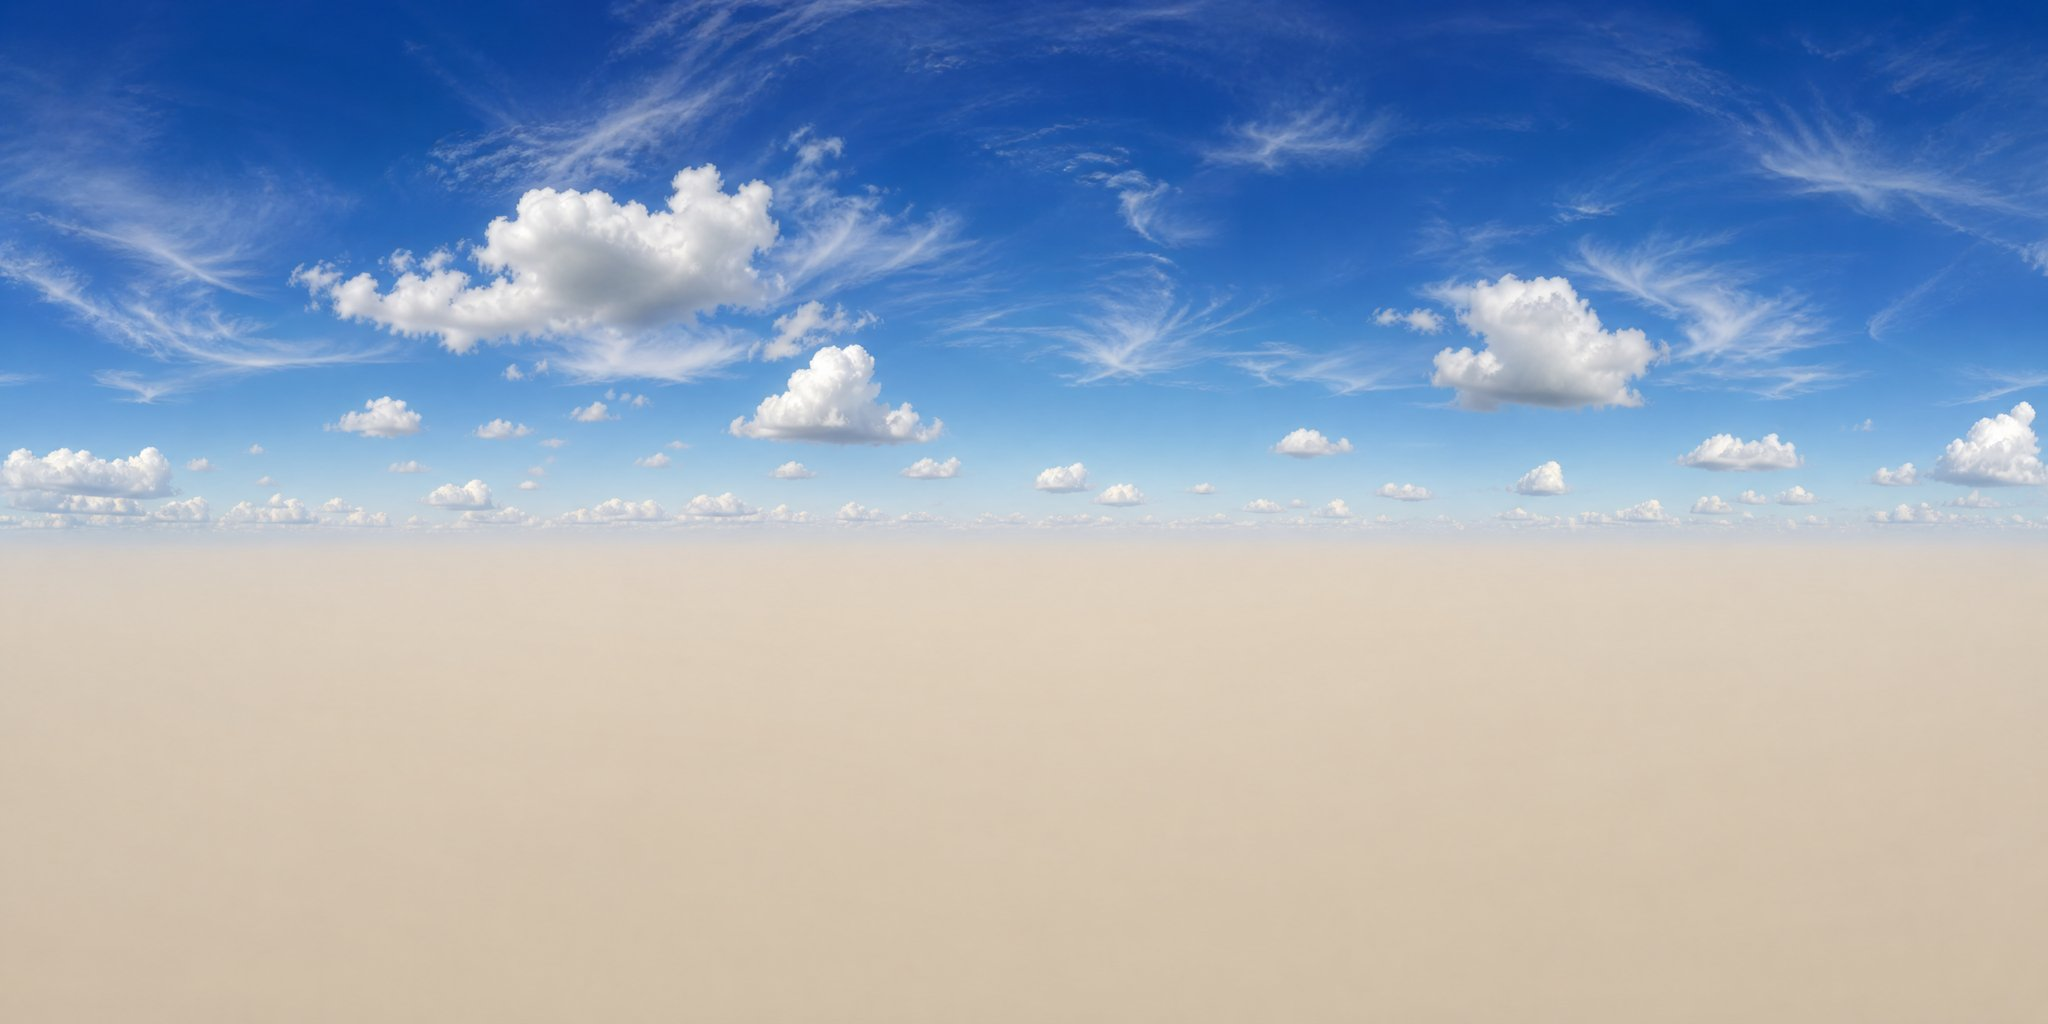
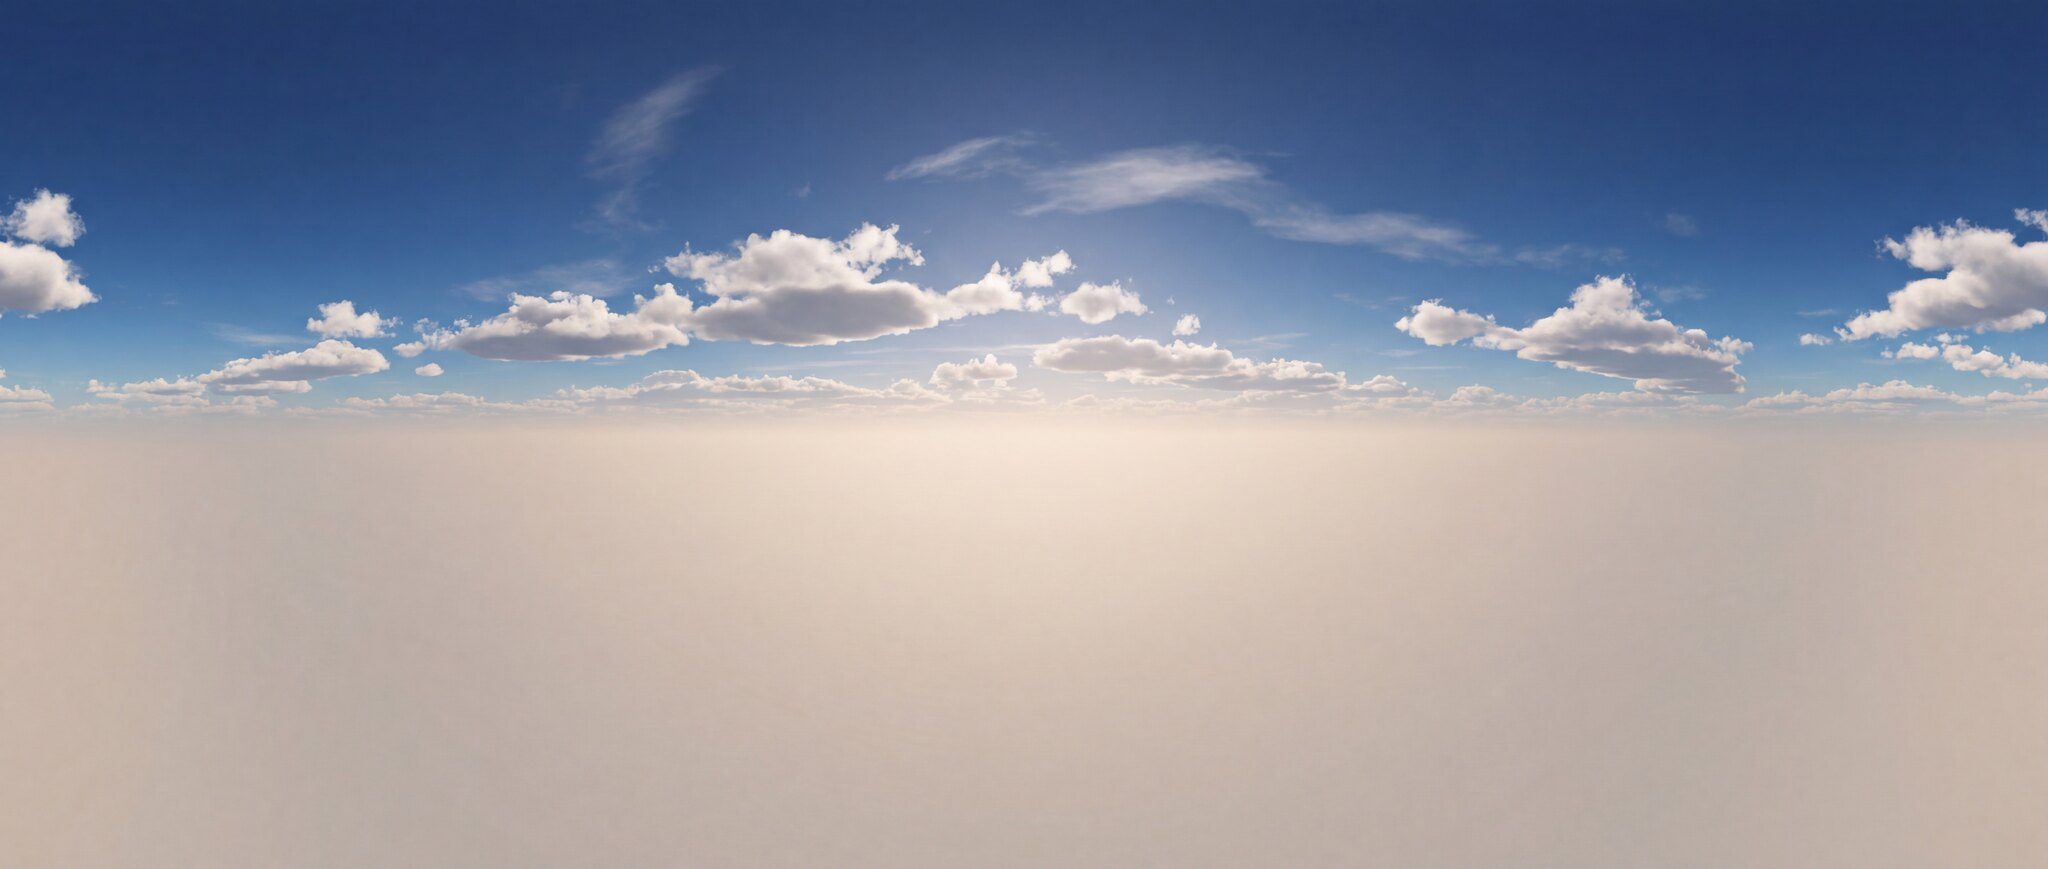
Integrate generated texture pack: sky day/dusk/night, 8 ground textures, 8 branded entry signs

diff --git a/app/public/client.js b/app/public/client.js
@@ -56,15 +56,15 @@ addEventListener("resize", resize); resize();
 
 // sky dome with gradient, sun glow and a cloud layer drawn from noise
 const texLoader0 = new THREE.TextureLoader();
-const skyDay = texLoader0.load("/tex/sky_day.jpg"), skyDusk = texLoader0.load("/tex/sky_dusk.jpg"); skyDay.encoding = skyDusk.encoding = THREE.sRGBEncoding;
+const skyDay = texLoader0.load("/tex/sky_day.jpg"), skyDusk = texLoader0.load("/tex/sky_dusk.jpg"), skyNight = texLoader0.load("/tex/sky_night.jpg"); skyDay.encoding = skyDusk.encoding = skyNight.encoding = THREE.sRGBEncoding;
 const skyMat = new THREE.ShaderMaterial({
-  uniforms: { tDay: { value: skyDay }, tDusk: { value: skyDusk }, kDusk: { value: 0 }, kNight: { value: 0 }, nightCol: { value: new THREE.Color(0x070b18) }, horizon: { value: new THREE.Color(0xe7d6bd) }, sunDir: { value: new THREE.Vector3(0, 1, 0) }, sunCol: { value: new THREE.Color(0xffd9a0) }, glow: { value: 1 } },
+  uniforms: { tDay: { value: skyDay }, tDusk: { value: skyDusk }, tNight: { value: skyNight }, kDusk: { value: 0 }, kNight: { value: 0 }, nightCol: { value: new THREE.Color(0x070b18) }, horizon: { value: new THREE.Color(0xe7d6bd) }, sunDir: { value: new THREE.Vector3(0, 1, 0) }, sunCol: { value: new THREE.Color(0xffd9a0) }, glow: { value: 1 } },
   vertexShader: `varying vec3 vDir; void main(){ vDir = normalize(position); gl_Position = projectionMatrix * modelViewMatrix * vec4(position, 1.0); }`,
-  fragmentShader: `uniform sampler2D tDay; uniform sampler2D tDusk; uniform float kDusk; uniform float kNight; uniform vec3 nightCol; uniform vec3 horizon; uniform vec3 sunDir; uniform vec3 sunCol; uniform float glow; varying vec3 vDir;
+  fragmentShader: `uniform sampler2D tDay; uniform sampler2D tDusk; uniform sampler2D tNight; uniform float kDusk; uniform float kNight; uniform vec3 nightCol; uniform vec3 horizon; uniform vec3 sunDir; uniform vec3 sunCol; uniform float glow; varying vec3 vDir;
     void main(){ vec3 d = normalize(vDir); float u = atan(d.z, d.x) / 6.28318 + 0.5; float v = 0.5 + asin(clamp(d.y, -1.0, 1.0)) / 3.14159;
       vec3 sky = mix(texture2D(tDay, vec2(u, v)).rgb, texture2D(tDusk, vec2(u, v)).rgb, kDusk);
       float hz = smoothstep(0.0, 0.12, d.y); sky = mix(horizon, sky, hz);
-      sky = mix(sky, nightCol, kNight);
+      sky = mix(sky, texture2D(tNight, vec2(u, v)).rgb, kNight);
       float s = max(dot(d, normalize(sunDir)), 0.0); sky += sunCol * glow * (pow(s, 500.0) * 2.4 + pow(s, 8.0) * 0.3 * (1.0 - hz * 0.5));
       gl_FragColor = vec4(sky, 1.0); }`,
   side: THREE.BackSide, depthWrite: false, fog: false });
@@ -108,7 +108,7 @@ const loadbar = $("#loadbar"); const setLoad = (p, m) => { loadbar.style.width =
 // ───────────────────────────── materials ─────────────────────────────
 function tiled(path, rx, ry) { const t = texLoader0.load(path); t.wrapS = t.wrapT = THREE.RepeatWrapping; t.repeat.set(rx, ry); t.encoding = THREE.sRGBEncoding; t.anisotropy = 8; return t; }
 function procTex(fn, size) { const c = document.createElement("canvas"); c.width = c.height = size || 256; const x = c.getContext("2d"); fn(x, c.width); const t = new THREE.CanvasTexture(c); t.wrapS = t.wrapT = THREE.RepeatWrapping; t.repeat.set(4, 4); t.encoding = THREE.sRGBEncoding; return t; }
-const TEX = { detail: tiled("/tex/detail.jpg", 1, 1), turf: tiled("/tex/turf.jpg", 1, 1), apron: tiled("/tex/apron.jpg", 1, 1), dirt: tiled("/tex/dirt.jpg", 1, 1),
+const TEX = { detail: tiled("/tex/detail.jpg", 1, 1), turf: tiled("/tex/turf.jpg", 1, 1), apron: tiled("/tex/apron.jpg", 1, 1), dirt: tiled("/tex/dirt.jpg", 1, 1), sand: tiled("/tex/sand.jpg", 1, 1), wood: tiled("/tex/wood.jpg", 1, 1), adobe: tiled("/tex/adobe.jpg", 1, 1), corrugated: tiled("/tex/corrugated.jpg", 1, 1),
   plank: procTex((x, S) => { x.fillStyle = "#7a5535"; x.fillRect(0, 0, S, S); for (let i = 0; i < 8; i++) { x.fillStyle = i % 2 ? "rgba(0,0,0,.14)" : "rgba(255,255,255,.05)"; x.fillRect(0, i * S / 8, S, S / 8); x.fillStyle = "rgba(0,0,0,.4)"; x.fillRect(0, i * S / 8, S, 2); for (let k = 0; k < 40; k++) { x.fillStyle = "rgba(0,0,0,.08)"; x.fillRect(Math.random() * S, i * S / 8 + Math.random() * S / 8, 20 + Math.random() * 60, 1); } } }),
   adobeWall: procTex((x, S) => { x.fillStyle = "#e6dac4"; x.fillRect(0, 0, S, S); for (let k = 0; k < 900; k++) { x.fillStyle = `rgba(120,90,60,${Math.random() * 0.08})`; x.fillRect(Math.random() * S, Math.random() * S, 2 + Math.random() * 4, 2 + Math.random() * 4); } }),
   checker: procTex((x, S) => { for (let i = 0; i < 4; i++) for (let j = 0; j < 4; j++) { x.fillStyle = (i + j) % 2 ? "#f5f1e6" : "#0a1610"; x.fillRect(i * S / 4, j * S / 4, S / 4, S / 4); } }) };
@@ -123,7 +123,7 @@ const M = {
   coneW: new THREE.MeshStandardMaterial({ color: 0xf5f1e6, roughness: 0.7 }), tire: new THREE.MeshStandardMaterial({ color: 0x1d1d1f, roughness: 0.95 }),
   ramp: new THREE.MeshStandardMaterial({ color: 0x7a5a3a, roughness: 0.9 }), banner: new THREE.MeshStandardMaterial({ color: 0x4dde6f, roughness: 0.8, side: THREE.DoubleSide }),
   turf: new THREE.MeshStandardMaterial({ map: TEX.turf, roughness: 1 }), fringe: new THREE.MeshStandardMaterial({ color: 0x6f9a4a, roughness: 1 }),
-  sand: new THREE.MeshStandardMaterial({ color: 0xe6d3a3, roughness: 1 }), wall: new THREE.MeshStandardMaterial({ color: 0x8b6a45, roughness: 0.9 }),
+  sand: new THREE.MeshStandardMaterial({ map: TEX.sand, roughness: 1 }), wall: new THREE.MeshStandardMaterial({ color: 0x8b6a45, roughness: 0.9 }),
   bumper: new THREE.MeshStandardMaterial({ color: 0xf4cd5a, roughness: 0.6 }), flag: new THREE.MeshStandardMaterial({ color: 0xff3b30, side: THREE.DoubleSide }),
   hole: new THREE.MeshBasicMaterial({ color: 0x0a0a0a }), post: new THREE.MeshStandardMaterial({ color: 0x3a2a1c, roughness: 0.95 }),
 };
@@ -161,9 +161,11 @@ function textTexture(lines, w, h, opts) {
   lines.forEach((ln, i) => { x.font = `${ln.weight || 400} ${ln.size}px ${ln.font || "Anton, Impact, sans-serif"}`; x.fillStyle = ln.color || "#f5f1e6"; if (ln.shadow) { x.shadowColor = "rgba(0,0,0,.6)"; x.shadowBlur = 8; x.shadowOffsetY = 4; } x.fillText(ln.text, w / 2, ln.y * h); x.shadowBlur = 0; x.shadowOffsetY = 0; });
   const t = new THREE.CanvasTexture(c); t.encoding = THREE.sRGBEncoding; t.anisotropy = 8; return t;
 }
+const SIGN_ART = { "GENESIS ONE": "/tex/sign_genesis.jpg", "THE LANDING": "/tex/sign_landing.jpg", "THE FLIGHT LINE": "/tex/sign_flightline.jpg", "THE EXPANSE": "/tex/sign_expanse.jpg", "GIVEBACK HOME BASE": "/tex/sign_homebase.jpg", "DESERT GOLF": "/tex/sign_golf.jpg", "CART COURSE": "/tex/sign_course.jpg", "SKY OBBY": "/tex/sign_obby.jpg" };
+const SIGN_TEX = {}; for (const k in SIGN_ART) { const t = texLoader0.load(SIGN_ART[k]); t.encoding = THREE.sRGBEncoding; t.anisotropy = 8; SIGN_TEX[k] = t; }
 function sign(x, z, rot, title, sub, big) {
   const g = new THREE.Group(); const W = big ? 11 : 6.4, Hh = big ? 4 : 2.4;
-  const tex = textTexture([{ text: title, size: big ? 150 : 110, y: 0.42, shadow: true }, { text: sub, size: big ? 52 : 42, y: 0.74, color: "#4DDE6F", font: "'Space Grotesk', system-ui, sans-serif", weight: 600 }], 1024, 384, { planks: true, border: "#4DDE6F" });
+  const tex = SIGN_TEX[title] || textTexture([{ text: title, size: big ? 150 : 110, y: 0.42, shadow: true }, { text: sub, size: big ? 52 : 42, y: 0.74, color: "#4DDE6F", font: "'Space Grotesk', system-ui, sans-serif", weight: 600 }], 1024, 384, { planks: true, border: "#4DDE6F" });
   const board = new THREE.Mesh(new THREE.BoxGeometry(W, Hh, 0.18), [M.wood, M.wood, M.wood, M.wood, new THREE.MeshStandardMaterial({ map: tex, roughness: 0.85 }), new THREE.MeshStandardMaterial({ map: tex, roughness: 0.85 })]);
   board.position.y = (big ? 3.2 : 2.2) + Hh / 2; g.add(board);
   for (const s of [-1, 1]) { const p = new THREE.Mesh(new THREE.BoxGeometry(0.3, board.position.y + Hh / 2, 0.3), M.post); p.position.set(s * (W / 2 - 0.4), (board.position.y + Hh / 2) / 2, 0); g.add(p); }
@@ -869,7 +871,7 @@ function furnish(g, kind, r) {
 function enterInterior(door) {
   if (inside || riding || golf.playing) return; if (cartMode) toggleCart();
   const e = door.e, r = door.r; const g = new THREE.Group(); g.position.set(e[0], e[1], e[2]); g.rotation.y = e[3];
-  const isH = door.kind === "hangar" || door.kind === "hangarhome"; const wallMat = new THREE.MeshStandardMaterial({ color: isH ? 0xb9bec4 : 0xe6dac4, map: isH ? null : TEX.adobeWall, roughness: 0.9, side: THREE.DoubleSide }), floorMat = new THREE.MeshStandardMaterial({ map: isH ? TEX.apron : TEX.plank, roughness: 0.95 });
+  const isH = door.kind === "hangar" || door.kind === "hangarhome"; const wallMat = new THREE.MeshStandardMaterial({ map: isH ? TEX.corrugated : TEX.adobe, roughness: 0.9, side: THREE.DoubleSide }), floorMat = new THREE.MeshStandardMaterial({ map: isH ? TEX.apron : TEX.wood, roughness: 0.95 });
   const hgt = door.kind === "hangar" || door.kind === "hangarhome" ? 7 : 3.6, half = r * 0.95;
   const floor = new THREE.Mesh(new THREE.PlaneGeometry(half * 2, half * 2), floorMat); floor.rotation.x = -Math.PI / 2; floor.position.y = 0.05; g.add(floor);
   const ceil = new THREE.Mesh(new THREE.PlaneGeometry(half * 2, half * 2), wallMat); ceil.rotation.x = Math.PI / 2; ceil.position.y = hgt; g.add(ceil);
